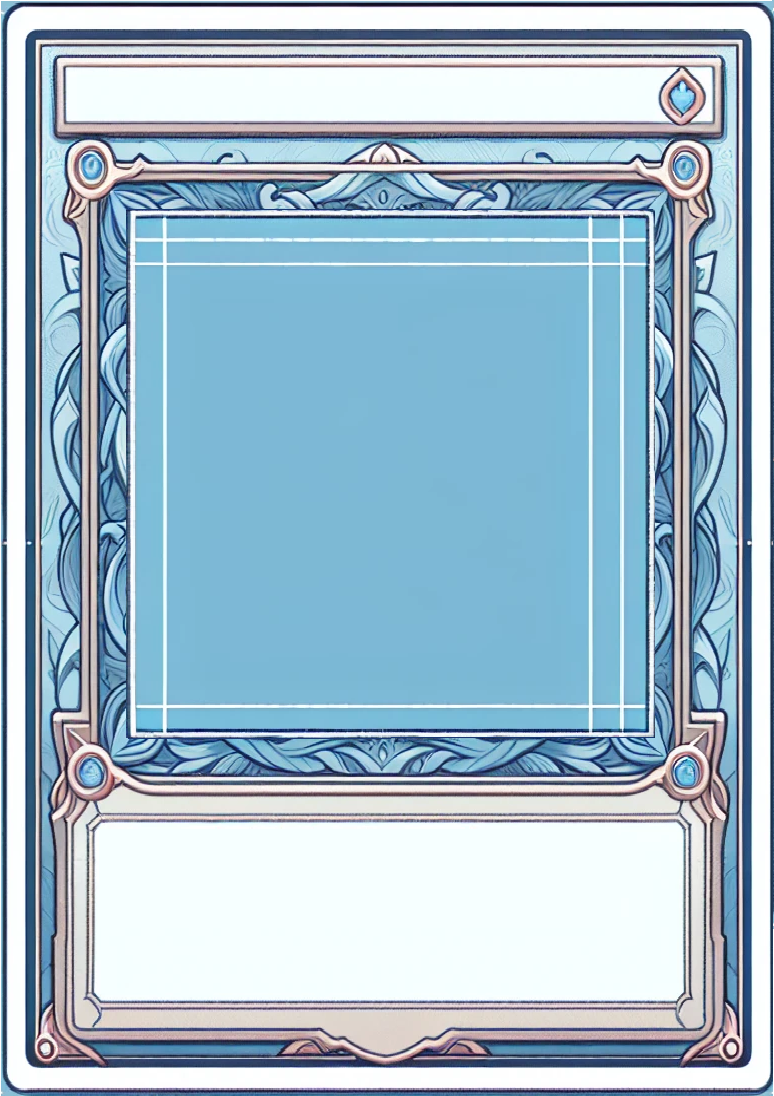
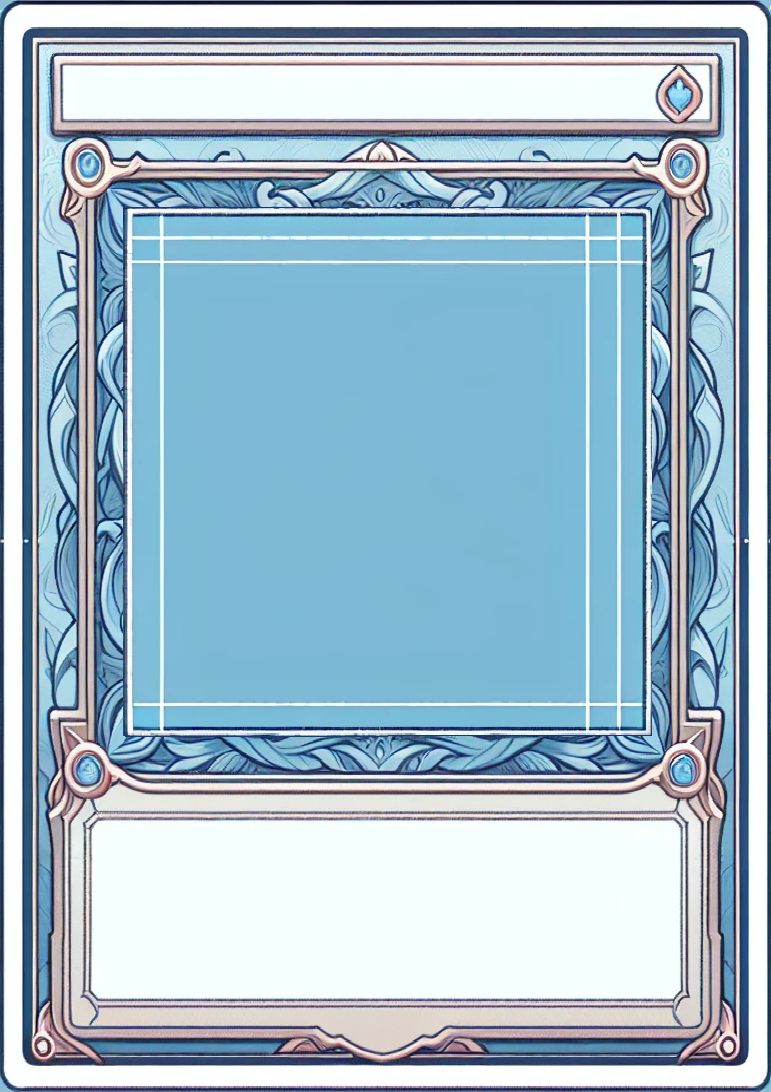
Adjusted Card Template

Changed region(s): [[0.0, 0.0, 1.0, 1.0], [0.9961, 0.685, 1.0, 0.7784]]

diff --git a/templates/README.MD b/templates/README.MD
@@ -14,4 +14,9 @@ So next I attempted to create ornaments for a card:
 I was not happy with those results either, as I could not manage to find a way to make them "rectangly" enough.
 But a last attempt got me a quite usable template:
 
-![Card template final](card_template-1501611839027470511.webp)
+![Card template good](card_template-1501611839027470511.webp)
+
+Which I then dilettantically resized to fit a Din A7 format with a square in the middle for the image:
+
+![Card template final](card_template.png)
+
